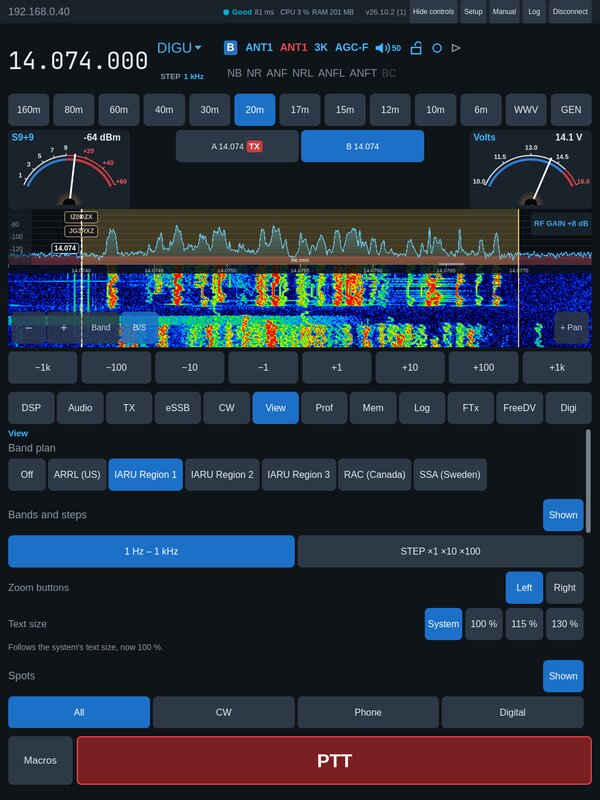
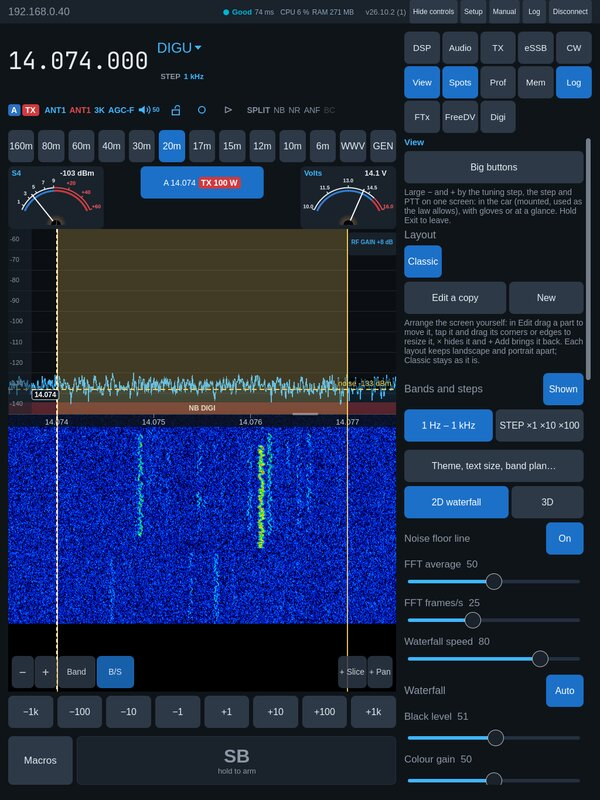
mobile: 156 the controls beside the display upright where they fit (a 13" iPad, a Mac window), pinned or the drawer from the right, as in landscape
The user on the iPad (build 210): typing upright the pinned panel jumped
from under the display to the side, and the side arrangement is the better
one upright too ("Vaihtoehto 2 paras ipad ja mac"). OperatePage's new
stacked (portrait && !sideFits) keeps the controls under the display only
where the band buttons do not fit beside the panel: an 11" iPad and a mini
are unchanged. Own layouts keep the true orientation. The manual's
ipad-portrait picture (1024 x 1366) re-rendered on the FLEX, its caption
the 13" iPad's.

Claude-Session: https://claude.ai/code/session_01KANojkzU64KoozGDbNDzRK

diff --git a/mobile/qml/OperatePage.qml b/mobile/qml/OperatePage.qml
@@ -152,7 +152,16 @@ Page {
     // Landscape with the panel pinned: two columns, the panel the full
     // height at the right, PTT under the display only. Otherwise one column
     // and PTT the full width.
-    readonly property bool twoColumns: !portrait && panelPinned
+    readonly property bool twoColumns: !stacked && panelPinned
+    // The controls stacked under the display (the pinned panel below it, the
+    // drawer from the bottom with its own PTT): upright, and only where the
+    // panel does not fit beside the display (roadmap 156, the user on the
+    // iPad: the side arrangement is the better one upright too, "iPad ja
+    // Mac"). A 13" iPad and a Mac window upright take it; an 11" iPad and a
+    // mini (834 and 744 wide) keep the controls under the display, as their
+    // band buttons do not fit beside a 320 panel. Own layouts keep the true
+    // orientation (orientation above).
+    readonly property bool stacked: portrait && !sideFits
     // Landscape side column: the pinned control panel (none when hidden).
     // Fixed, so content can never widen it off screen. At least 320 as the
     // drawer: 287 on a 1024 pt window cut "TX 2170 Hz", "New DXCC" and the
@@ -174,7 +183,7 @@ Page {
     // iPad, the mini's 1089 pt too): lower, the panel's share left the
     // display no height (640 x 700, 683 x 1004); the drawer then.
     readonly property bool bottomFits: Theme.classHeight >= 1050
-    readonly property bool pinFits: portrait ? bottomFits : sideFits
+    readonly property bool pinFits: stacked ? bottomFits : sideFits
     readonly property bool panelPinned: Engine.controlsVisible && pinFits
 
     function formatMhz(mhz) {
@@ -683,11 +692,11 @@ Page {
             // Beside the display and PTT; with PTT hidden (FT8 / FT4) the
             // display's row only, so the empty PTT row does not take height.
             Layout.rowSpan: page.twoColumns && ptt.visible ? 2 : 1
-            Layout.preferredWidth: page.portrait ? -1 : page.sideWidth
-            Layout.maximumWidth: page.portrait ? Number.POSITIVE_INFINITY : page.sideWidth
-            Layout.fillWidth: page.portrait
-            Layout.fillHeight: !page.portrait
-            Layout.preferredHeight: page.portrait ? page.height * 0.42 : -1
+            Layout.preferredWidth: page.stacked ? -1 : page.sideWidth
+            Layout.maximumWidth: page.stacked ? Number.POSITIVE_INFINITY : page.sideWidth
+            Layout.fillWidth: page.stacked
+            Layout.fillHeight: !page.stacked
+            Layout.preferredHeight: page.stacked ? page.height * 0.42 : -1
             spacing: Theme.spacing
 
             // Pinned panel: section toggles; the chosen sections stack below
@@ -706,7 +715,7 @@ Page {
         // so no second PTT peeks out under the drawer.
         RowLayout {
             id: pttRow
-            visible: !(controlsDrawer.visible && page.portrait) && !ptt.digiHidden
+            visible: !(controlsDrawer.visible && page.stacked) && !ptt.digiHidden
             Layout.row: page.twoColumns ? 1 : (page.panelPinned ? 2 : 1)
             Layout.column: 0
             Layout.fillWidth: true
@@ -1045,12 +1054,12 @@ Page {
     Drawer {
         id: controlsDrawer
         objectName: "controlsDrawer"
-        edge: page.portrait ? Qt.BottomEdge : Qt.RightEdge
+        edge: page.stacked ? Qt.BottomEdge : Qt.RightEdge
         // At least 320 pt beside the display: a narrow window's 40 % cut the
         // panel's buttons short.
         // In landscape with no Pin Controls the × sits beside the section
         // buttons (ControlsPanel.closeInGrid): the drawer is that much wider.
-        width: page.portrait ? page.width
+        width: page.stacked ? page.width
                              : Math.min(Math.max(page.width * 0.4, 320 * Theme.bigScale), 460 * Theme.bigScale)
                                + (drawerPanel.closeInGrid ? drawerPanel.closeColumn : 0)
         // Landscape: ends above the page's PTT row, which stays usable, so
@@ -1059,7 +1068,7 @@ Page {
         // Upright with the on-screen keyboard up it takes the whole page above
         // the keyboard, as Full-screen controls: half of a short page left
         // the Log tab's call field one line high (an opened OnePlus Open).
-        height: page.portrait ? (page.controlsFull || page.Window.height - page.height > 1
+        height: page.stacked ? (page.controlsFull || page.Window.height - page.height > 1
                                  ? (parent ? parent.height : page.height)
                                  : Math.min(page.height * 0.5, 560) + Math.max(0, page.Window.height - page.height))
                               : page.height - page.pttHeight - 2 * Theme.spacing
@@ -1115,12 +1124,12 @@ Page {
                     }
                 }
                 // Landscape has no Close at the bottom: a × at the top.
-                showCloseButton: !page.portrait
+                showCloseButton: !page.stacked
                 onCloseRequested: controlsDrawer.close()
             }
             // Upright: Close, full height and the PTT copy, as on the phone.
             RowLayout {
-                visible: page.portrait
+                visible: page.stacked
                 Layout.fillWidth: true
                 spacing: Theme.spacing / 2
                 AppButton {

diff --git a/mobile/ROADMAP.md b/mobile/ROADMAP.md
@@ -323,6 +323,7 @@ build. The sections below hold the details.
 153. **Radio:** A memory recalled onto our slice only (upstream #7502, 55f891971) (upstream review 2026-11-23 (the user: "Katso onko upstreamissä jotain meille", then "Kirjaa nämä"): 475 upstream commits after the merge base 7864ef544 to f61dfbbb0, about 100 FLEX-relevant read; *pre-analysis*: `memory apply` acts on the radio's active slice, so with two slices the other one could move; MobileEngine::recallMemory sends `memory apply` then `slice tune m_slice`, the same pattern. Port by hand: `slice set <id> active=1` first (upstream's FlexStoredControls.cpp is not in the fork). Tests: two slices, the other active, a memory recalled, both frequencies read back. Size: small. Not chosen for a build.
 154. **Controllers:** MIDI settings saved safely (upstream #6630 a87f11c6c, #6846 efd58619d) (upstream review 2026-11-23 (the user: "Katso onko upstreamissä jotain meille", then "Kirjaa nämä"): 475 upstream commits after the merge base 7864ef544 to f61dfbbb0, about 100 FLEX-relevant read; *pre-analysis*: save() writes with a plain QFile and can leave the MIDI bindings empty after a failed write; upstream saves atomically and does not overwrite a file it could not read. The first applies cleanly, the second builds on it. Tests: a mapping saved, a read-only / broken file, the bindings after restart (desktop and Android). Size: small. Not chosen for a build.
 155. **Devices:** TGXL's manual relays numbered 0 / 1 / 2 again (upstream review 2026-11-23 (the user: "Katso onko upstreamissä jotain meille", then "Kirjaa nämä"): 475 upstream commits after the merge base 7864ef544 to f61dfbbb0, about 100 FLEX-relevant read; *pre-analysis*: our 6c9391f98 (2026-11-04) moved `relay=` to 1 = C1, 2 = L, 3 = C2 after 4O3A's PDF and was tested only on genius-mock, which was built from the same PDF. Upstream #7227 (eb827a714, 2026-11-19) keeps 0 = C1, 1 = L, 2 = C2 from a pcap of 4O3A's own program against a real TGXL (firmware 1.2.17, upstream #469) and reverted its own one-based change, which had also been tested on an emulator only. So on a real TGXL our C1 button likely moves L, L moves C2 and C2 sends a relay that does not exist. Fix: the relay numbers back to 0..2 (TunerModel, genius-mock), the rest of 6c9391f98 (operate / bypass set, state read, SWR) kept. Needs a tester with a real TGXL to confirm: asked in the group 2026-11-23 (the user: "Esitä tämä kysymys ryhmässä niin saadaan 100% varmuus"), https://www.facebook.com/groups/1468327561855382/posts/1501255525229252/ (C1 + pressed once: which bar moves, and the TGXL's firmware). Size: small. Not chosen for a build. *Confirmed and fixed in build 208 / Android beta 117:* Ben Morris KT4O on a TGXL with firmware 1.2.44 (FB 2026-11-23): C1 + changed L, so the device numbers from 0; TgxlConnection sends relay 0..2, genius-mock follows, the engine logs each step with the relays before and after.
+156. **Layout:** The controls beside the display upright on a big screen (*chosen for the coming build*) (the user, 2026-11-23 evening on the iPad with build 210: typing in the Log tab upright the pinned panel jumped from under the display to the side, and the side arrangement is "paras näkymä sekä pystyssä että vaakassa", "Vaihtoehto 2 paras ipad ja mac"). *Pre-analysis*: OperatePage chose by orientation alone: upright the pinned panel under the display (bottomFits, 1050 pt) or the drawer from the bottom; in landscape the panel at the side (sideFits: the band buttons, at least 560, beside a 320 panel) or the drawer from the right. A new stacked = portrait && !sideFits keeps the controls under the display only where the side does not fit: a 13" iPad (1024 wide) and a Mac window upright take the side arrangement, pinned or the drawer from the right; an 11" iPad (834) and a mini (744) keep theirs (482 / 400 left for the band buttons). Own layouts keep the true orientation (port / land). Tested in the render tool (demo radio): 1024 x 1366 pinned at the side, the Log field and PTT above a 403 keyboard, unpinned the drawer from the right; 834 x 1194 unchanged (under the display). Classic changes at 1024 x 1366 upright (approved by this item). Size: small.
 
 Ideas to analyse before they get a number (2026-11-09: a number only after a pre-analysis):
 - Upstream maybes from the same review (2026-11-23), not numbered: the AGC-T sweep stopped when no audio arrives (#6711; our flat-curve check already restores AGC-T); no NaN filters in the RTTY decoder with Mark / Space at or below 0 Hz (#7390); the ATU locked out on transverter outputs (#7016, conflicts, QML dimming too); static_net_params not sent over SmartLink or a VPN, where a wrong address strands a remote radio (#7310, as an idea for MobileEngine); ggmorse's printf / fflush out of its decode loop (9636edbf1); RTTY lock and level following copy quality (#7427, conflicts, changes statsUpdated); a TX off delay so the end of speech still airs (#7059, an idea for our PTT path); DVK on 3.x firmware (#7200); the nickname on 4.3.16 (#6470); TGXL port labels (#6709).

diff --git a/docs/mobile/MANUAL.md b/docs/mobile/MANUAL.md
@@ -588,9 +588,11 @@ folding switch it live. A window at least 600 points wide and 500 high
 gets the tablet layout, so a foldable's inner screen (the iPhone Duo's,
 the OnePlus Open's) looks the same in both orientations: where the row is short of room, the frequency and the
 info panel beside it shrink a little, and only in a narrow window does the
-panel go under the frequency. In portrait the controls pin under the display only on a
-screen about 1050 points tall (an iPad); on a lower one they open as the
-drawer. On a very low screen in landscape (a phone's outer
+panel go under the frequency. Upright, where the controls fit beside the
+display (a 13" iPad, a Mac window; since build 211) they stay at the right
+as in landscape, pinned or as the drawer from the right; on a narrower
+screen (an 11" iPad, a mini) they pin under the display, on a screen about
+1050 points tall, and open as the drawer from the bottom on a lower one. On a very low screen in landscape (a phone's outer
 screen, the smaller iPhones) the band buttons give way to the display;
 there the **Band** button on the waterfall opens the bands, with *Whole
 band* (the band zoom) and *Close* at the top. **B/S** (bands / steps) beside it hides the
@@ -1423,7 +1425,8 @@ assigned* or *The selected TX antenna cannot transmit on this frequency*).
 ## 8. Controls
 
 **Controls** (top row) opens the controls; on an iPad, *Pin Controls* keeps
-them in the page (at the right in landscape, under the display in portrait),
+them in the page (at the right in landscape and upright on a 13" iPad or a
+Mac window, under the display upright on a narrower iPad),
 with toggle buttons to show several sections at once; *Hide controls* puts
 them back into the drawer. On a tablet in landscape **×** beside *Pin
 Controls* closes the drawer (upright, *Close* is at its foot; a tap outside
@@ -1440,7 +1443,7 @@ PSK63). With an amplifier set up ([Radio Setup › Amp](#9-radio-setup)),
 or a 4O3A Power Genius XL or Tuner Genius XL connected to the radio, an
 **Amp** tab joins them.
 
-![iPad in portrait with the controls pinned under the display](manual/ipad-portrait.jpg)
+![A 13" iPad upright with the controls pinned beside the display](manual/ipad-portrait.jpg)
 
 | DSP | Audio | TX | eSSB |
 |---|---|---|---|
